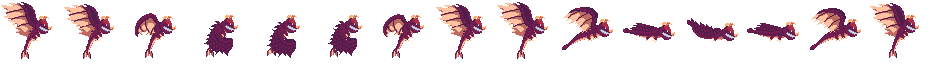
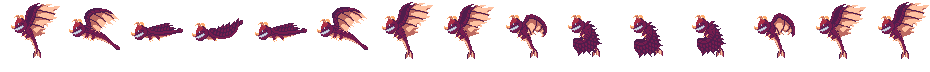
19/03-9.33

Changed region(s): [[0.0, 0.0278, 1.0, 0.8056]]

diff --git a/core/src/com/mygdx/game/screens/StartScreen.java b/core/src/com/mygdx/game/screens/StartScreen.java
@@ -17,7 +17,9 @@ public class StartScreen implements Screen {
     private Texture startScreenTexture;
     private BitmapFont font;
     private Rectangle startButton;
+    private Rectangle pauseButton; // Nuevo botón de pausa
     private Music backgroundMusic; // Variable para la música de fondo
+    private boolean isMusicPaused = false; // Variable para controlar el estado de la música
 
     public StartScreen(SpriteBatch batch) {
         this.batch = batch;
@@ -34,6 +36,13 @@ public class StartScreen implements Screen {
         float buttonX = (Gdx.graphics.getWidth() - buttonWidth) / 2;
         float buttonY = (Gdx.graphics.getHeight() - buttonHeight) / 2;
         startButton = new Rectangle(buttonX, buttonY, buttonWidth, buttonHeight);
+
+        // Define el área del botón de pausa centrado en la pantalla
+        float pauseButtonWidth = Gdx.graphics.getWidth() / 4;
+        float pauseButtonHeight = Gdx.graphics.getHeight() / 15;
+        float pauseButtonX = (Gdx.graphics.getWidth() - pauseButtonWidth) / 2;
+        float pauseButtonY = (Gdx.graphics.getHeight() - pauseButtonHeight) / 4;
+        pauseButton = new Rectangle(pauseButtonX, pauseButtonY, pauseButtonWidth, pauseButtonHeight);
 
         // Cargar la música de fondo
         backgroundMusic = Gdx.audio.newMusic(Gdx.files.internal("music/dragon-ball.mp3"));
@@ -71,6 +80,9 @@ public class StartScreen implements Screen {
         // Dibuja el texto del botón de inicio
         font.draw(batch, "Start Game", startButton.x, startButton.y + startButton.height);
 
+        // Dibuja el texto del botón de pausa
+        font.draw(batch, isMusicPaused ? "Resume Music" : "Pause Music", pauseButton.x, pauseButton.y + pauseButton.height);
+
         batch.end();
 
         // Verifica si se hizo clic en el botón de inicio
@@ -84,6 +96,17 @@ public class StartScreen implements Screen {
                 // Si se hizo clic en el botón de inicio, cambia a la pantalla de juego
                 ((MyGdxGame) Gdx.app.getApplicationListener()).changeScreen(MyGdxGame.GAME_SCREEN);
             }
+
+            // Verifica si se hizo clic en el botón de pausa
+            if (pauseButton.contains(x, y)) {
+                // Si se hizo clic en el botón de pausa, pausa o reanuda la música
+                if (isMusicPaused) {
+                    backgroundMusic.play();
+                } else {
+                    backgroundMusic.pause();
+                }
+                isMusicPaused = !isMusicPaused;
+            }
         }
     }
 
@@ -95,6 +118,13 @@ public class StartScreen implements Screen {
         float buttonX = (width - buttonWidth) / 2;
         float buttonY = (height - buttonHeight) / 2;
         startButton.set(buttonX, buttonY, buttonWidth, buttonHeight);
+
+        // Reajusta el tamaño y la posición del botón de pausa al cambiar el tamaño de la ventana
+        float pauseButtonWidth = width / 4;
+        float pauseButtonHeight = height / 15;
+        float pauseButtonX = (width - pauseButtonWidth) / 2;
+        float pauseButtonY = (height - pauseButtonHeight) / 4;
+        pauseButton.set(pauseButtonX, pauseButtonY, pauseButtonWidth, pauseButtonHeight);
 
         // Actualiza el tamaño de la textura de fondo al cambiar el tamaño de la ventana
         startScreenTexture.dispose();
@@ -130,3 +160,4 @@ public class StartScreen implements Screen {
         backgroundMusic.dispose();
     }
 }
+

diff --git a/core/src/com/mygdx/game/objects/Cacodaemon.java b/core/src/com/mygdx/game/objects/Cacodaemon.java
@@ -14,9 +14,9 @@ public class Cacodaemon {
     private Vector2 position;
     private Rectangle bounds;
 
-    private static final int FRAME_WIDTH = 64;
-    private static final int FRAME_HEIGHT = 64;
-    private static final int FRAMES_IN_ROW_WALK = 6;
+    private static final int FRAME_WIDTH = 62;
+    private static final int FRAME_HEIGHT = 72;
+    private static final int FRAMES_IN_ROW_WALK = 15;
     private static final int FRAMES_IN_ROW_DEATH = 4;
 
     private static final float FRAME_DURATION = 0.1f;
@@ -31,8 +31,8 @@ public class Cacodaemon {
     private float attackTimer;
 
     public Cacodaemon(Vector2 position, int health) {
-        Texture walkSpriteSheet = new Texture(Gdx.files.internal("Cacodaemon/Cacodaemon.png"));
-        Texture deathSpriteSheet = new Texture(Gdx.files.internal("Cacodaemon/CacodaemonDeath.png"));
+        Texture walkSpriteSheet = new Texture(Gdx.files.internal("MinionDragon/MinionDragon.png"));
+        Texture deathSpriteSheet = new Texture(Gdx.files.internal("MinionDragon/MinionDragonMuerte.png"));
 
         walkFrames = new TextureRegion[FRAMES_IN_ROW_WALK];
         deathFrames = new TextureRegion[FRAMES_IN_ROW_DEATH];
